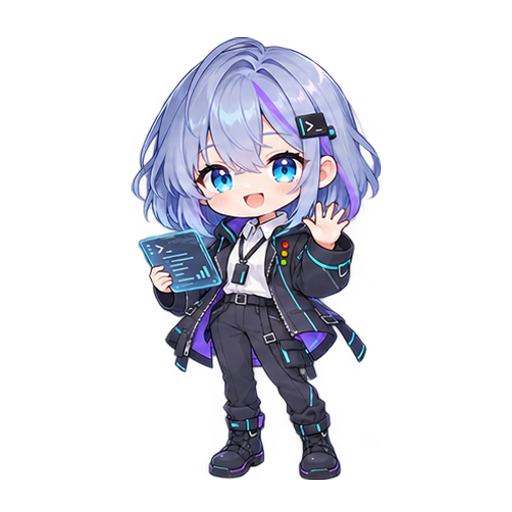
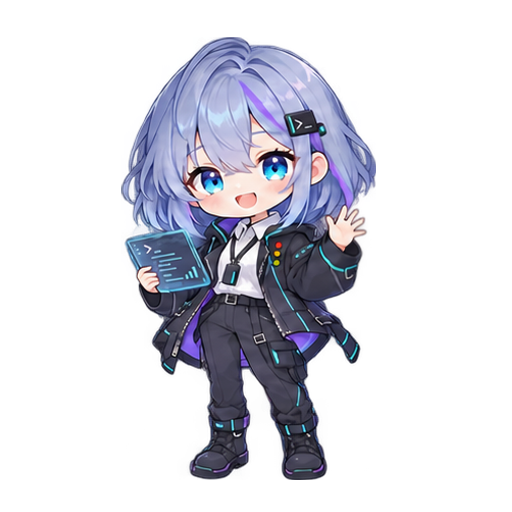
重构看板娘交互并同步重新合成挥手素材

Changed region(s): [[0.2188, 0.0625, 0.75, 0.9375]]

diff --git a/src/components/app/DesktopMascot.test.tsx b/src/components/app/DesktopMascot.test.tsx
@@ -13,59 +13,142 @@ describe("DesktopMascot", () => {
     vi.unstubAllGlobals();
   });
 
-  it("reflects the current session status without stealing input focus", () => {
-    const input = document.createElement("input");
-    document.body.appendChild(input);
-    input.focus();
-    const { rerender } = render(<DesktopMascot locale="zh-CN" status="running" sessionTitle="Session A" onAction={vi.fn()} />);
-    expect(document.activeElement).toBe(input);
-    fireEvent.click(screen.getByRole("button", { name: "和小帕聊聊" }));
-    expect(screen.getByText("Session A")).toBeTruthy();
-    expect(screen.getByRole("status").textContent).toContain("正在工作");
-    rerender(<DesktopMascot locale="zh-CN" status="waiting_for_permission" sessionTitle="Session B" onAction={vi.fn()} />);
-    expect(screen.getByText("Session B")).toBeTruthy();
-    expect(screen.getByRole("status").textContent).toContain("需要你的回应");
-    input.remove();
-  });
-
-  it("routes shortcuts only after a click and closes the conversation", () => {
+  it("clicks without opening chat or showing a badge", () => {
     const onAction = vi.fn();
-    render(<DesktopMascot locale="zh-CN" onAction={onAction} />);
+    render(<DesktopMascot locale="en-US" onAction={onAction} />);
+    fireEvent.click(screen.getByRole("button", { name: "Move companion (arrow keys)" }));
+    expect(screen.queryByRole("textbox")).toBeNull();
+    expect(screen.queryByRole("status")).toBeNull();
+    expect(screen.getByRole("complementary").querySelector(".desktop-mascot-badge")).toBeNull();
     expect(onAction).not.toHaveBeenCalled();
-    fireEvent.click(screen.getByRole("button", { name: "和小帕聊聊" }));
-    fireEvent.click(screen.getByRole("button", { name: "Skills" }));
-    expect(onAction).toHaveBeenCalledWith("skills");
-    expect(screen.queryByRole("button", { name: "发送" })).toBeNull();
   });
 
-  it("provides local guidance without triggering actions or rendering user HTML", () => {
-    const onAction = vi.fn();
-    render(<DesktopMascot locale="zh-CN" onAction={onAction} />);
-    fireEvent.click(screen.getByRole("button", { name: "和小帕聊聊" }));
-    fireEvent.change(screen.getByRole("textbox"), { target: { value: "SSH <script>alert(1)</script>" } });
-    fireEvent.click(screen.getByRole("button", { name: "发送" }));
-    expect(screen.getByText(/点击「新建会话」选择 SSH/)).toBeTruthy();
-    expect(screen.getByRole("log").querySelector("script")).toBeNull();
-    expect(onAction).not.toHaveBeenCalled();
-    expect(localStorage.getItem("pannel-handle.desktop-mascot.v1")).not.toContain("script");
-  });
-
-  it("persists collapse, animation and keyboard positioning across remounts", () => {
+  it("reveals minimize on hover or focus and persists collapse and keyboard position", () => {
+    localStorage.setItem("pannel-handle.desktop-mascot.v1", JSON.stringify({ animated: false }));
     const props = { locale: "en-US" as const, onAction: vi.fn() };
     const { unmount } = render(<DesktopMascot {...props} />);
-    fireEvent.click(screen.getByRole("button", { name: "Talk to Panna" }));
-    fireEvent.click(screen.getByRole("button", { name: "Pause motion" }));
-    fireEvent.keyDown(screen.getByRole("button", { name: "Move companion (arrow keys)" }), { key: "ArrowLeft" });
+    const companion = screen.getByRole("complementary");
+    expect(screen.queryByRole("button", { name: "Minimize companion" })).toBeNull();
+    fireEvent.mouseEnter(companion);
+    const minimize = screen.getByRole("button", { name: "Minimize companion" });
+    fireEvent.mouseEnter(minimize);
+    expect(screen.getByRole("button", { name: "Minimize companion" })).toBe(minimize);
+    fireEvent.mouseLeave(companion);
+    expect(screen.queryByRole("button", { name: "Minimize companion" })).toBeNull();
+    const button = screen.getByRole("button", { name: "Move companion (arrow keys)" });
+    fireEvent.focus(button);
+    expect(screen.getByRole("button", { name: "Minimize companion" })).toBeTruthy();
+    fireEvent.keyDown(button, { key: "ArrowLeft" });
     const saved = JSON.parse(localStorage.getItem("pannel-handle.desktop-mascot.v1")!);
     expect(saved.animated).toBe(false);
     expect(Number.isFinite(saved.x)).toBe(true);
-    fireEvent.click(screen.getByRole("button", { name: "Minimize companion" }));
+    fireEvent.click(minimize);
     unmount();
     render(<DesktopMascot {...props} />);
-    expect(screen.getByRole("button", { name: "Expand companion" })).toBeTruthy();
     fireEvent.click(screen.getByRole("button", { name: "Expand companion" }));
-    expect(screen.getByRole("button", { name: "Talk to Panna" })).toBeTruthy();
-    expect(screen.getByRole("button", { name: "Talk to Panna" }).querySelector("img")?.getAttribute("src")).toContain("frames/idle/01.png");
+    expect(screen.getByRole("button", { name: "Move companion (arrow keys)" }).querySelector("img")?.getAttribute("src")).toContain("frames/idle/01.png");
+  });
+
+  it("hides minimize after mouse focus leaves the hover area", () => {
+    const { button, companion } = setupDrag();
+    fireEvent.mouseEnter(companion);
+    fireEvent.pointerDown(button, pointer);
+    fireEvent.focus(button);
+    fireEvent.pointerUp(button, pointer);
+    fireEvent.mouseLeave(companion);
+    expect(screen.queryByRole("button", { name: "Minimize companion" })).toBeNull();
+    fireEvent.keyDown(button, { key: "ArrowLeft" });
+    expect(screen.getByRole("button", { name: "Minimize companion" })).toBeTruthy();
+    fireEvent.blur(button, { relatedTarget: document.body });
+    expect(screen.queryByRole("button", { name: "Minimize companion" })).toBeNull();
+  });
+
+  function setupDrag(collapsed = false) {
+    vi.useFakeTimers({ toFake: ["setTimeout", "clearTimeout"] });
+    localStorage.setItem("pannel-handle.desktop-mascot.v1", JSON.stringify({ x: 200, y: 200, collapsed }));
+    class TestPointerEvent extends MouseEvent {
+      pointerId: number;
+      isPrimary: boolean;
+      constructor(type: string, init: PointerEventInit = {}) {
+        super(type, init);
+        this.pointerId = init.pointerId ?? 1;
+        this.isPrimary = init.isPrimary ?? true;
+      }
+    }
+    vi.stubGlobal("PointerEvent", TestPointerEvent);
+    const result = render(<DesktopMascot locale="en-US" onAction={vi.fn()} />);
+    const button = screen.getByRole("button", { name: collapsed ? "Expand companion" : "Move companion (arrow keys)" });
+    button.setPointerCapture = vi.fn();
+    button.hasPointerCapture = vi.fn(() => true);
+    button.releasePointerCapture = vi.fn();
+    return { ...result, button, companion: screen.getByRole("complementary") };
+  }
+  const pointer = { pointerId: 1, button: 0, isPrimary: true, clientX: 250, clientY: 250 };
+
+  it("waits 50ms and drags from the latest pointer position within bounds", () => {
+    const { button, companion, unmount } = setupDrag();
+    fireEvent.pointerDown(button, pointer);
+    advance(49);
+    fireEvent.pointerMove(button, { ...pointer, clientX: 280 });
+    expect(companion.style.left).toBe("200px");
+    advance(1);
+    fireEvent.pointerMove(button, { ...pointer, clientX: 300 });
+    expect(companion.style.left).toBe("220px");
+    fireEvent.pointerMove(button, { ...pointer, clientX: 1e6, clientY: -1e6 });
+    expect(companion.style.left).toBe(`${window.innerWidth - 152}px`);
+    expect(companion.style.top).toBe("44px");
+    fireEvent.pointerUp(button, pointer);
+    expect(button.releasePointerCapture).toHaveBeenCalledWith(1);
+    unmount();
+    render(<DesktopMascot locale="en-US" onAction={vi.fn()} />);
+    expect(screen.getByRole("complementary").style.top).toBe("44px");
+  });
+
+  it.each(["pointerUp", "pointerCancel", "lostPointerCapture"] as const)("cleans up early %s", event => {
+    const { button, companion } = setupDrag();
+    fireEvent.pointerDown(button, pointer);
+    advance(25);
+    fireEvent[event](button, pointer);
+    advance(50);
+    fireEvent.pointerMove(button, { ...pointer, clientX: 400 });
+    expect(companion.style.left).toBe("200px");
+    expect(companion.className).not.toContain("is-dragging");
+  });
+
+  it.each(["pointerCancel", "lostPointerCapture"] as const)("stops active movement on %s", event => {
+    const { button, companion } = setupDrag();
+    fireEvent.pointerDown(button, pointer);
+    advance(50);
+    fireEvent.pointerMove(button, { ...pointer, clientX: 270 });
+    fireEvent[event](button, pointer);
+    fireEvent.pointerMove(button, { ...pointer, clientX: 400 });
+    expect(companion.style.left).toBe("220px");
+    expect(companion.className).not.toContain("is-dragging");
+  });
+
+  it("suppresses expansion after dragging but permits a subsequent short click", () => {
+    const { button } = setupDrag(true);
+    fireEvent.pointerDown(button, pointer);
+    advance(50);
+    fireEvent.pointerMove(button, { ...pointer, clientX: 270 });
+    fireEvent.pointerUp(button, pointer);
+    fireEvent.click(button);
+    expect(screen.getByRole("button", { name: "Expand companion" })).toBeTruthy();
+    fireEvent.pointerDown(button, pointer);
+    fireEvent.pointerUp(button, pointer);
+    fireEvent.click(button);
+    expect(screen.getByRole("button", { name: "Move companion (arrow keys)" })).toBeTruthy();
+  });
+
+  it("ignores secondary pointers and clears pending capture and timers on unmount", () => {
+    const { button, unmount } = setupDrag();
+    fireEvent.pointerDown(button, { ...pointer, isPrimary: false });
+    fireEvent.pointerDown(button, { ...pointer, button: 2 });
+    expect(button.setPointerCapture).not.toHaveBeenCalled();
+    fireEvent.pointerDown(button, pointer);
+    unmount();
+    expect(button.releasePointerCapture).toHaveBeenCalledWith(1);
+    expect(timerCount()).toBe(0);
   });
 
   it("recovers from malformed or out-of-bounds stored preferences", () => {
@@ -77,11 +160,11 @@ describe("DesktopMascot", () => {
     unmount();
     localStorage.setItem("pannel-handle.desktop-mascot.v1", "invalid JSON");
     render(<DesktopMascot locale="en-US" onAction={vi.fn()} />);
-    expect(screen.getByRole("button", { name: "Talk to Panna" })).toBeTruthy();
+    expect(screen.getByRole("button", { name: "Move companion (arrow keys)" })).toBeTruthy();
   });
 
   function character() {
-    return screen.getByRole("button", { name: "和小帕聊聊" }).querySelector("img")!;
+    return screen.getByRole("button", { name: "拖动看板娘（方向键移动）" }).querySelector("img")!;
   }
   function advance(ms: number) { act(() => { vi.advanceTimersByTime(ms); }); }
   function timerCount() {
@@ -115,9 +198,9 @@ describe("DesktopMascot", () => {
     expect(character()).toBe(actionImage);
     fireEvent.load(actionImage);
     rerender(<DesktopMascot locale="zh-CN" status="completed" sessionTitle="Completed session" onAction={vi.fn()} />);
-    // Session updates and opening the conversation must not restart the action.
-    fireEvent.click(screen.getByRole("button", { name: "和小帕聊聊" }));
-    expect(screen.getByRole("status").textContent).toContain("本轮任务已完成");
+    // Session updates and clicking the character must not restart the action.
+    fireEvent.click(screen.getByRole("button", { name: "拖动看板娘（方向键移动）" }));
+    expect(screen.queryByRole("status")).toBeNull();
     advance(duration - 1);
     expect(character()).toBe(actionImage);
     advance(1);
@@ -139,26 +222,17 @@ describe("DesktopMascot", () => {
     expect(character().getAttribute("src")).toContain("panna-working.gif");
   });
 
-  it("uses a still frame when paused and resumes with a fresh idle image", () => {
+  it("uses a still frame for persisted paused preferences", () => {
+    localStorage.setItem("pannel-handle.desktop-mascot.v1", JSON.stringify({ animated: false }));
     startAnimation();
-    fireEvent.load(character());
-    advance(8000);
-    fireEvent.load(character());
-    fireEvent.click(screen.getByRole("button", { name: "和小帕聊聊" }));
-    fireEvent.click(screen.getByRole("button", { name: "暂停动画" }));
     expect(character().getAttribute("src")).toContain("frames/idle/01.png");
     expect(timerCount()).toBe(0);
-    advance(30000);
-    fireEvent.click(screen.getByRole("button", { name: "开启动画" }));
-    expect(character().getAttribute("src")).toContain("panna-idle.gif");
-    fireEvent.load(character());
-    advance(7999);
-    expect(character().getAttribute("src")).toContain("panna-idle.gif");
   });
 
   it("cleans up scheduling when collapsed or unmounted", () => {
     const { unmount } = startAnimation();
     fireEvent.load(character());
+    fireEvent.mouseEnter(screen.getByRole("complementary"));
     fireEvent.click(screen.getByRole("button", { name: "收起看板娘" }));
     expect(screen.getByRole("complementary").querySelector("img")).toBeNull();
     expect(timerCount()).toBe(0);
@@ -214,9 +288,7 @@ describe("DesktopMascot", () => {
     fireEvent.error(character());
     expect(character().getAttribute("src")).toContain("panel-navigator.png");
     expect(timerCount()).toBe(0);
-    fireEvent.click(screen.getByRole("button", { name: "和小帕聊聊" }));
-    fireEvent.click(screen.getByRole("button", { name: "暂停动画" }));
-    fireEvent.click(screen.getByRole("button", { name: "开启动画" }));
+    fireEvent.click(screen.getByRole("button", { name: "拖动看板娘（方向键移动）" }));
     fireEvent.load(character());
     advance(30000);
     expect(character().getAttribute("src")).toContain("panel-navigator.png");

diff --git a/src/components/app/DesktopMascot.tsx b/src/components/app/DesktopMascot.tsx
@@ -108,6 +108,7 @@ export function DesktopMascot({ locale }: {
   const animation = useMascotAnimation(preferences.animated && !preferences.collapsed);
   const drag = useRef<{ id: number; x: number; y: number; startX: number; startY: number; active: boolean; timer: number; target: HTMLButtonElement } | undefined>(undefined);
   const suppressClick = useRef(false);
+  const keyboardInteraction = useRef(true);
   const position = boundPosition(preferences.x ?? viewport.width - 172, preferences.y ?? viewport.height - 230, preferences.collapsed);
   const text = (cn: string, en: string) => zh ? cn : en;
 
@@ -146,7 +147,7 @@ export function DesktopMascot({ locale }: {
       current.active = true;
       suppressClick.current = true;
       setDragging(true);
-    }, 300);
+    }, 50);
     drag.current = current;
   }
   function moveDrag(event: PointerEvent<HTMLButtonElement>) {
@@ -165,7 +166,9 @@ export function DesktopMascot({ locale }: {
   return (
     <aside className={`desktop-mascot${preferences.collapsed ? " is-collapsed" : ""}${dragging ? " is-dragging" : ""}`} style={style} aria-label={text("看板娘小帕", "Panna companion")}
       onMouseEnter={() => setHovered(true)} onMouseLeave={() => setHovered(false)}
-      onFocus={() => setFocused(true)} onBlur={event => { if (!event.currentTarget.contains(event.relatedTarget)) setFocused(false); }}>
+      onPointerDownCapture={() => { keyboardInteraction.current = false; setFocused(false); }}
+      onKeyDownCapture={() => { keyboardInteraction.current = true; setFocused(true); }}
+      onFocus={event => { if (keyboardInteraction.current || event.target.matches(":focus-visible")) setFocused(true); }} onBlur={event => { if (!event.currentTarget.contains(event.relatedTarget)) setFocused(false); }}>
       {!preferences.collapsed && <div className="desktop-mascot-controls" hidden={!hovered && !focused}>
         <button type="button" aria-label={text("收起看板娘", "Minimize companion")} onClick={() => setPreferences(current => ({ ...current, collapsed: true }))}><Minus size={14} /></button>
       </div>}

diff --git a/src/assets/mascot/gifs/README.md b/src/assets/mascot/gifs/README.md
@@ -6,12 +6,16 @@
 
 | 文件 | 内容 | 时长 | 播放帧数 |
 | --- | --- | --- | --- |
-| panna-idle.gif | 呼吸、眨眼 | 3 秒 | 8 |
+| panna-idle.gif | 稳定待机、眨眼 | 3 秒 | 4 |
 | panna-wave.gif | 挥手问好 | 2.08 秒 | 14 |
 | panna-working.gif | 操作平板、屏幕亮起 | 3 秒 | 14 |
 | panna-celebrate.gif | 举手、小跳、开心闭眼 | 2.08 秒 | 14 |
 
 所有 GIF 为 512 × 512、透明背景、无限循环；每款有 8 张不同动作 PNG，部分动画采用往返序列与停顿控制节奏。GIF 仅支持全透明或不透明，PNG 帧保留完整 alpha，适合后续转换成其他格式。
+
+待机播放使用睁眼、半闭眼、闭眼、半闭眼四个阶段，眨眼持续 220 毫秒，其余时间保持同一张睁眼姿态；移除逐帧抬升，减少身体跳动和不同原画之间的切换。
+
+挥手动画使用图集第一格作为固定主帧，以脚部重心定位、固定 443 像素人物高度，仅对右侧手腕和前臂进行余弦缓动的局部变形。头部、表情、平板、身体和脚部不随动作变化；编码时复用静止区域的色板索引，避免量化产生闪动。其余七格作为生成参考保留，不直接参与挥手合成。
 
 直接用浏览器打开 `preview.html`，可切换深色、浅色和透明棋盘背景，并下载 GIF。
 
@@ -32,9 +36,13 @@
 $toolDir = Join-Path $env:TEMP 'panna-gif-tools'
 npm install --prefix $toolDir --no-audit --no-fund sharp@0.35.5 gifenc@1.0.3 omggif@1.0.10
 node src/assets/mascot/gifs/assemble.cjs $toolDir
+# 仅更新挥手帧和 GIF，同时刷新解码检查图与报告：
+node src/assets/mascot/gifs/assemble.cjs $toolDir wave
 ```
 
 ## 验证记录
+
+2026-10-09 挥手优化：重新生成参考图集，改用单主帧局部变形；逐帧解码检查通过，确认手臂区域外像素完全一致，手部存在运动，维持 14 帧与 2080 毫秒时长。脚本语法检查及桌面构建通过。现有组件测试 14 项失败，原因是测试查找“和小帕聊聊”按钮，而当前组件名称为“拖动看板娘（方向键移动）”；本次未修改组件或测试。浏览器工具安全策略拒绝访问本地 file URL，本次未完成浏览器或 Electron 实际播放验收。
 
 2026-10-09：检查四张原始图集与深浅背景解码代表帧；脚本解码所有 GIF 帧并验证尺寸、透明索引、清除前帧设置、循环次数与时长；Chrome 实际加载播放四款 GIF，检查深浅背景显示与预览按钮。动画采用手绘关键帧风格，包含少量帧间线条变化。
 
